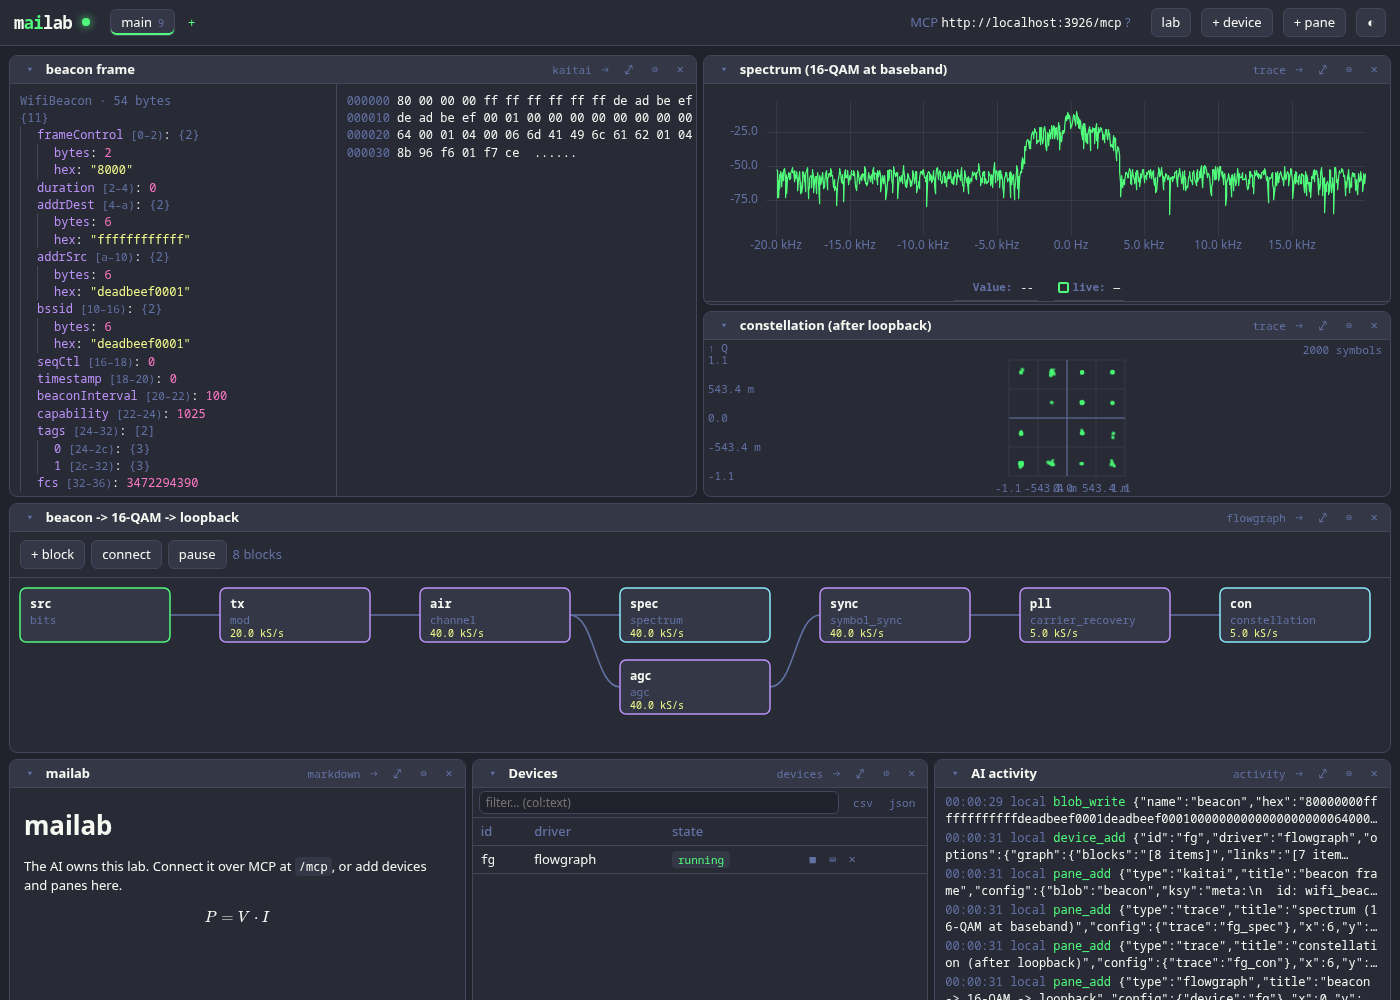
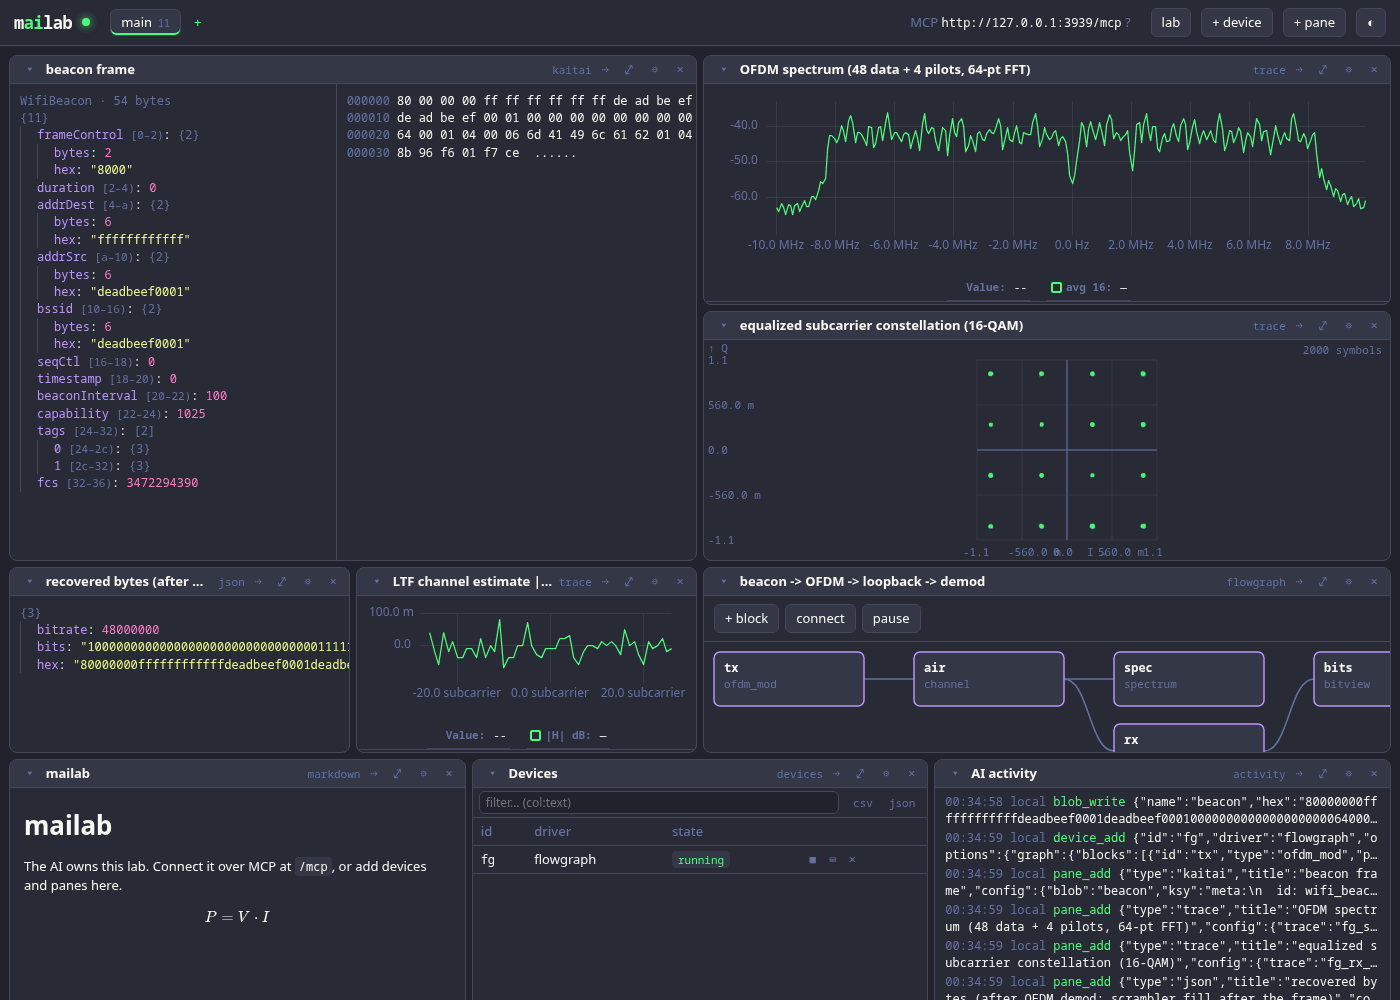
beacon-to-iq: regenerate demo screenshot with live OFDM flowgraph; SPEC: OFDM done

diff --git a/SPEC.md b/SPEC.md
@@ -88,7 +88,7 @@ Status: ✅ done · 🟡 partial · ⬜ not started
 | libsigrokdecode for external inputs | ✅ | flowgraph `decode` block + `decode`/`feed` commands (base64/hex/bits/lab blob; net_source u8/u16/u32/bits; sigrok `capture_blob`): the installed libsigrokdecode decoder scripts run in-process through a `sigrokdecode` stand-in (stacking works, e.g. spi+spiflash), because local sigrok-cli 0.7.2 + libsigrokdecode-git fails on any channel mapping; built-in numpy uart/spi/i2c/manchester with the same annotations. → value table, events, log, data blob, count channel. Regression test. `capture_blob` untested |
 | Demod, FFT, digital analysis | 🟡 | done: FM/AM/SSB, spectrum, symbol sync, carrier recovery, PSK/QAM demod + EVM. Planned: FSK/GFSK, baud estimation, bit/packet output, BLE/ESB decoding |
 | RF chamber / bypass mode | ⬜ | a loud, operator-only bypass for a shielded RF chamber or a throwaway non-persistent env: lifts the RF TX band allow-list (any frequency/power) and optionally the per-TX approval and device limits, so there's no friction when emissions are contained. ENV-ONLY (e.g. `MAILAB_RF_CHAMBER=1` / `MAILAB_UNSAFE=1`), never a device option and never AI-settable (set it in the fixed env like MAILAB_RF_* so options.env can't reach it); a persistent "⚠ SAFETY BYPASSED — chamber mode" banner in the UI, in safety_overview and in every activity/approval log line; still records what was done. Keep an independent opt-out for hardware-damage limits (PSU max V/I) so a typo can't fry a board even in bypass |
-| 802.11-style OFDM modulation (real Wi-Fi shaping) | ⬜ in progress (agent) | flowgraph `ofdm_mod` / `ofdm_demod`: 64-pt IFFT, 48 data + 4 pilot subcarriers, QAM per carrier, cyclic prefix, 802.11a/g STF/LTF preamble; bytes → genuine OFDM IQ (not single-carrier). Drives the beacon demo (demos/beacon-to-iq) so the spectrum is real Wi-Fi-shaped; loopback demod recovers the bytes. Still a DSP/signal block — TX stays behind the SDR TX safety gate |
+| 802.11-style OFDM modulation (real Wi-Fi shaping) | ✅ done | flowgraph `ofdm_mod` / `ofdm_demod`: 64-pt IFFT, 48 data + 4 pilot subcarriers, QAM per carrier, cyclic prefix, 802.11a/g STF/LTF preamble; bytes → genuine OFDM IQ (not single-carrier). Drives the beacon demo (demos/beacon-to-iq) so the spectrum is real Wi-Fi-shaped; loopback demod recovers the bytes. Still a DSP/signal block — TX stays behind the SDR TX safety gate |
 | HackRF / bladeRF modulation (TX) | ⬜ in progress (agent) | flowgraph `soapy_sink` (HackRF / bladeRF / any SoapySDR TX) and a hackrf_transfer TX path: modulated output from any flowgraph chain (mod, analog_mod, uart_tx, files). Safety: one shared RF TX policy for all transmitters (rfcat too): lab region bands (`MAILAB_RF_REGION`) + lab-level extra bands (e.g. amateur with a licence) only a person can configure; every TX start needs approval; gain / power caps; automatic stop after a max duration; TX state visible in the UI with a kill switch |
 | SDR receive in the flowgraph | ✅ | `soapy` source block; untested on hardware |
 | WebSocket streams | ⬜ | `ws-client`/`ws-server` modes for net_source/net_sink (IQ and data), for web SDRs and browser tools. (If "websocket" meant MCP-over-WebSocket, this row changes) |
@@ -179,7 +179,7 @@ Docker, Harogic, net IQ, spectrum analyzer traces, triggered scope + measurement
 (tokens, sessions, chat, channel push), auth hardening, esbuild + qrp + GUI SDK, modem toolkit (all QAM sizes, FSK family, BER, framing), graphing calculator.
 
 Next:
-1. In progress (agents): flowgraph block docs, SDR TX, OFDM, NanoVNA/tinySA (torch 2.15.0+cu134 is in the managed venv)
+1. In progress (agents): SDR TX, NanoVNA/tinySA (torch 2.15.0+cu134 is in the managed venv); OFDM + flowgraph block docs done
 2. Finish the qrp/SDK migration of the remaining panes; recordings pane; sweep heatmap
 3. MHO900 siggen
 4. Drivers: nRF52840 modem, Bus Pirate, Glasgow, ChipWhisperer Husky, InfiRay P2 Pro, JTAGulator, J-Link, BMP, OpenOCD, Tigard (port B), CatSniffer, NanoKVM, ThunderScope, KC901K/KC908V
